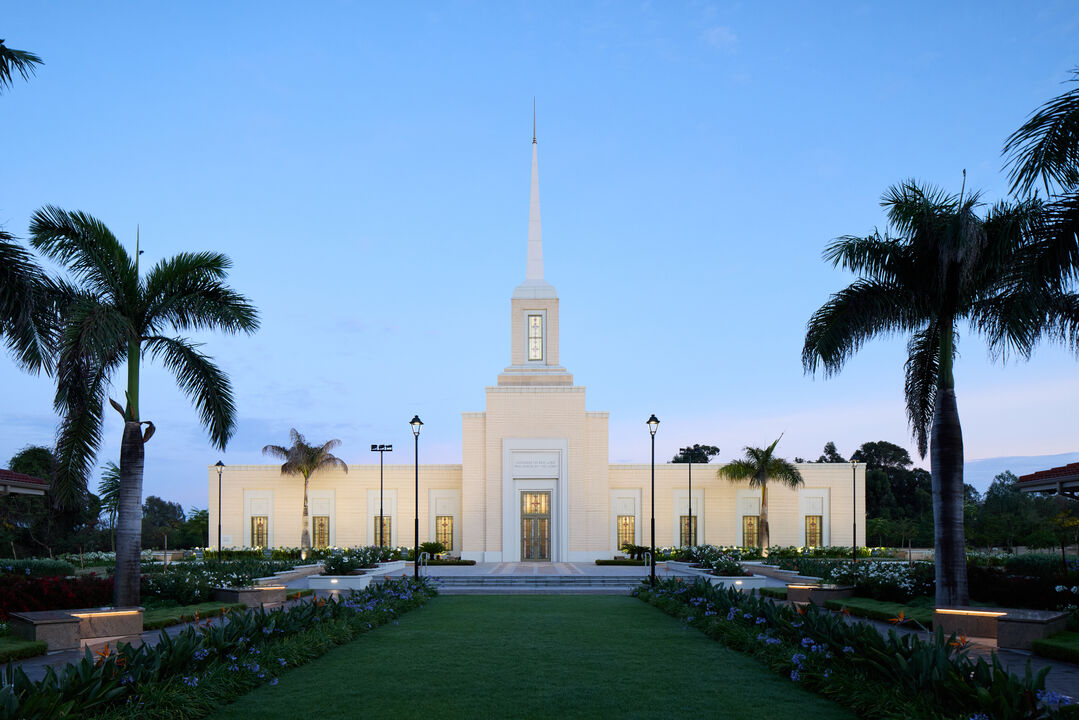
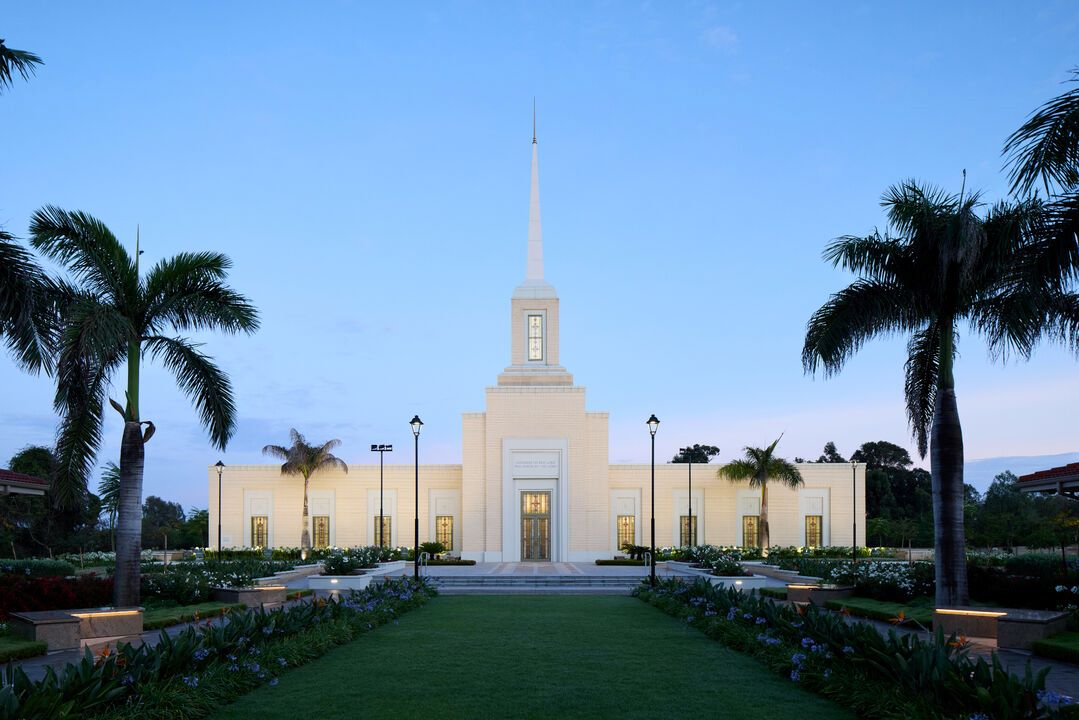
Temples

diff --git a/temples.html b/temples.html
@@ -39,7 +39,7 @@
                     <figcaption>Nairobi Kenya Temple</figcaption>
                 </figure>
                 <figure>
-                    <img src="images/Zimbabwe.jpg" alt="Harare Zimbabwe Temple" width="300" height="200">
+                    <img src="images/zimbabwe.jpg" alt="Harare Zimbabwe Temple" width="300" height="200">
                     <figcaption>Harare Zimbabwe Temple</figcaption>
                 </figure>
                 <figure>
@@ -55,7 +55,7 @@
                     <figcaption>Salt Lake Temple</figcaption>
                 </figure>
                 <figure>
-                    <img src="images/Accra.jfif" alt="Accra Ghana" width="300" height="200">
+                    <img src="images/accra.jfif" alt="Accra Ghana" width="300" height="200">
                     <figcaption>Accra Ghana Temple</figcaption>
                 </figure>
                 <figure>
